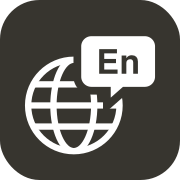
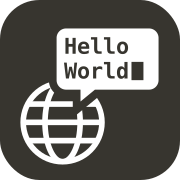
アイコンの文字を Hello World（等幅フォント＋カーソル）に
Claude-Session: https://claude.ai/code/session_01Bw63NyttgyfFi5Rtbn1KW4

Changed region(s): [[0.1111, 0.1389, 0.8889, 0.9167]]

diff --git a/index.html b/index.html
@@ -7,7 +7,7 @@
 <meta name="apple-mobile-web-app-title" content="英会話">
 <meta name="theme-color" content="#ffffff">
 <title>英会話</title>
-<link rel="apple-touch-icon" href="apple-touch-icon.png?v=3">
+<link rel="apple-touch-icon" href="apple-touch-icon.png?v=4">
 <link rel="icon" type="image/svg+xml" href="icon.svg">
 <style>
   :root { --fg:#37352f; --sub:#787774; --line:#e9e9e7; --bg:#fff; --soft:#f7f6f3; --red:#e03e3e; --blue:#2383e2; --green:#2b8a57;
